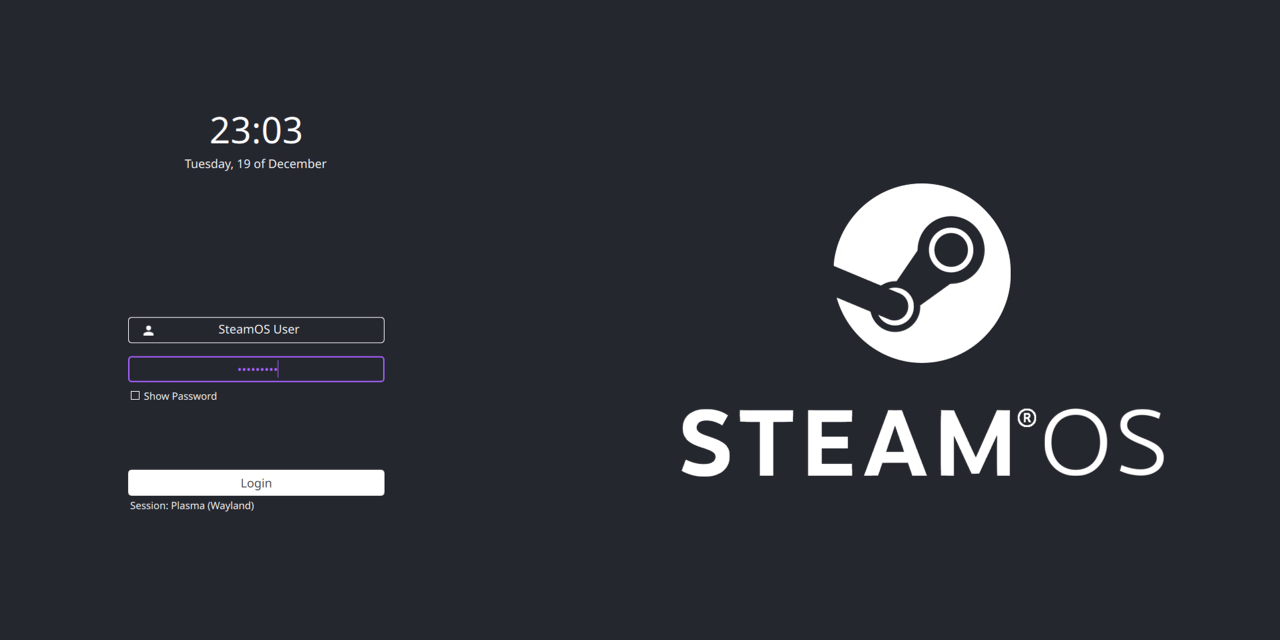
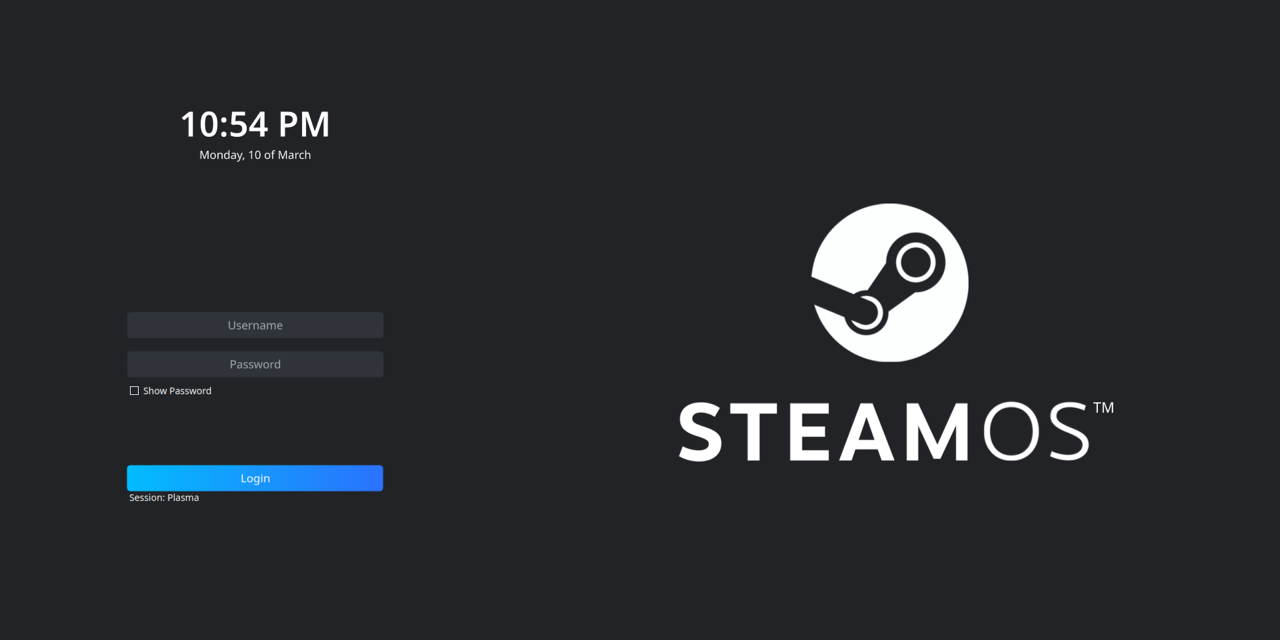
Changed social image to newest look

diff --git a/README.md b/README.md
@@ -6,7 +6,7 @@ A modified version of [MarianArlt's Sugar Dark theme for Simple Desktop Display 
 Created for desktop mode of [HoloISO](https://github.com/theVakhovskeIsTaken/holoiso). Based on the aesthetic of Valve's Steam platform.
 
 > [!IMPORTANT]
-> Main branch code is for KDE Plamsa 6. For KDE Plasma 5, see `kde5` branch. 
+> Main branch is for KDE Plamsa 6. KDE Plasma 5 version is being developed on `kde5` branch. 
 
 <br>
 <br>
